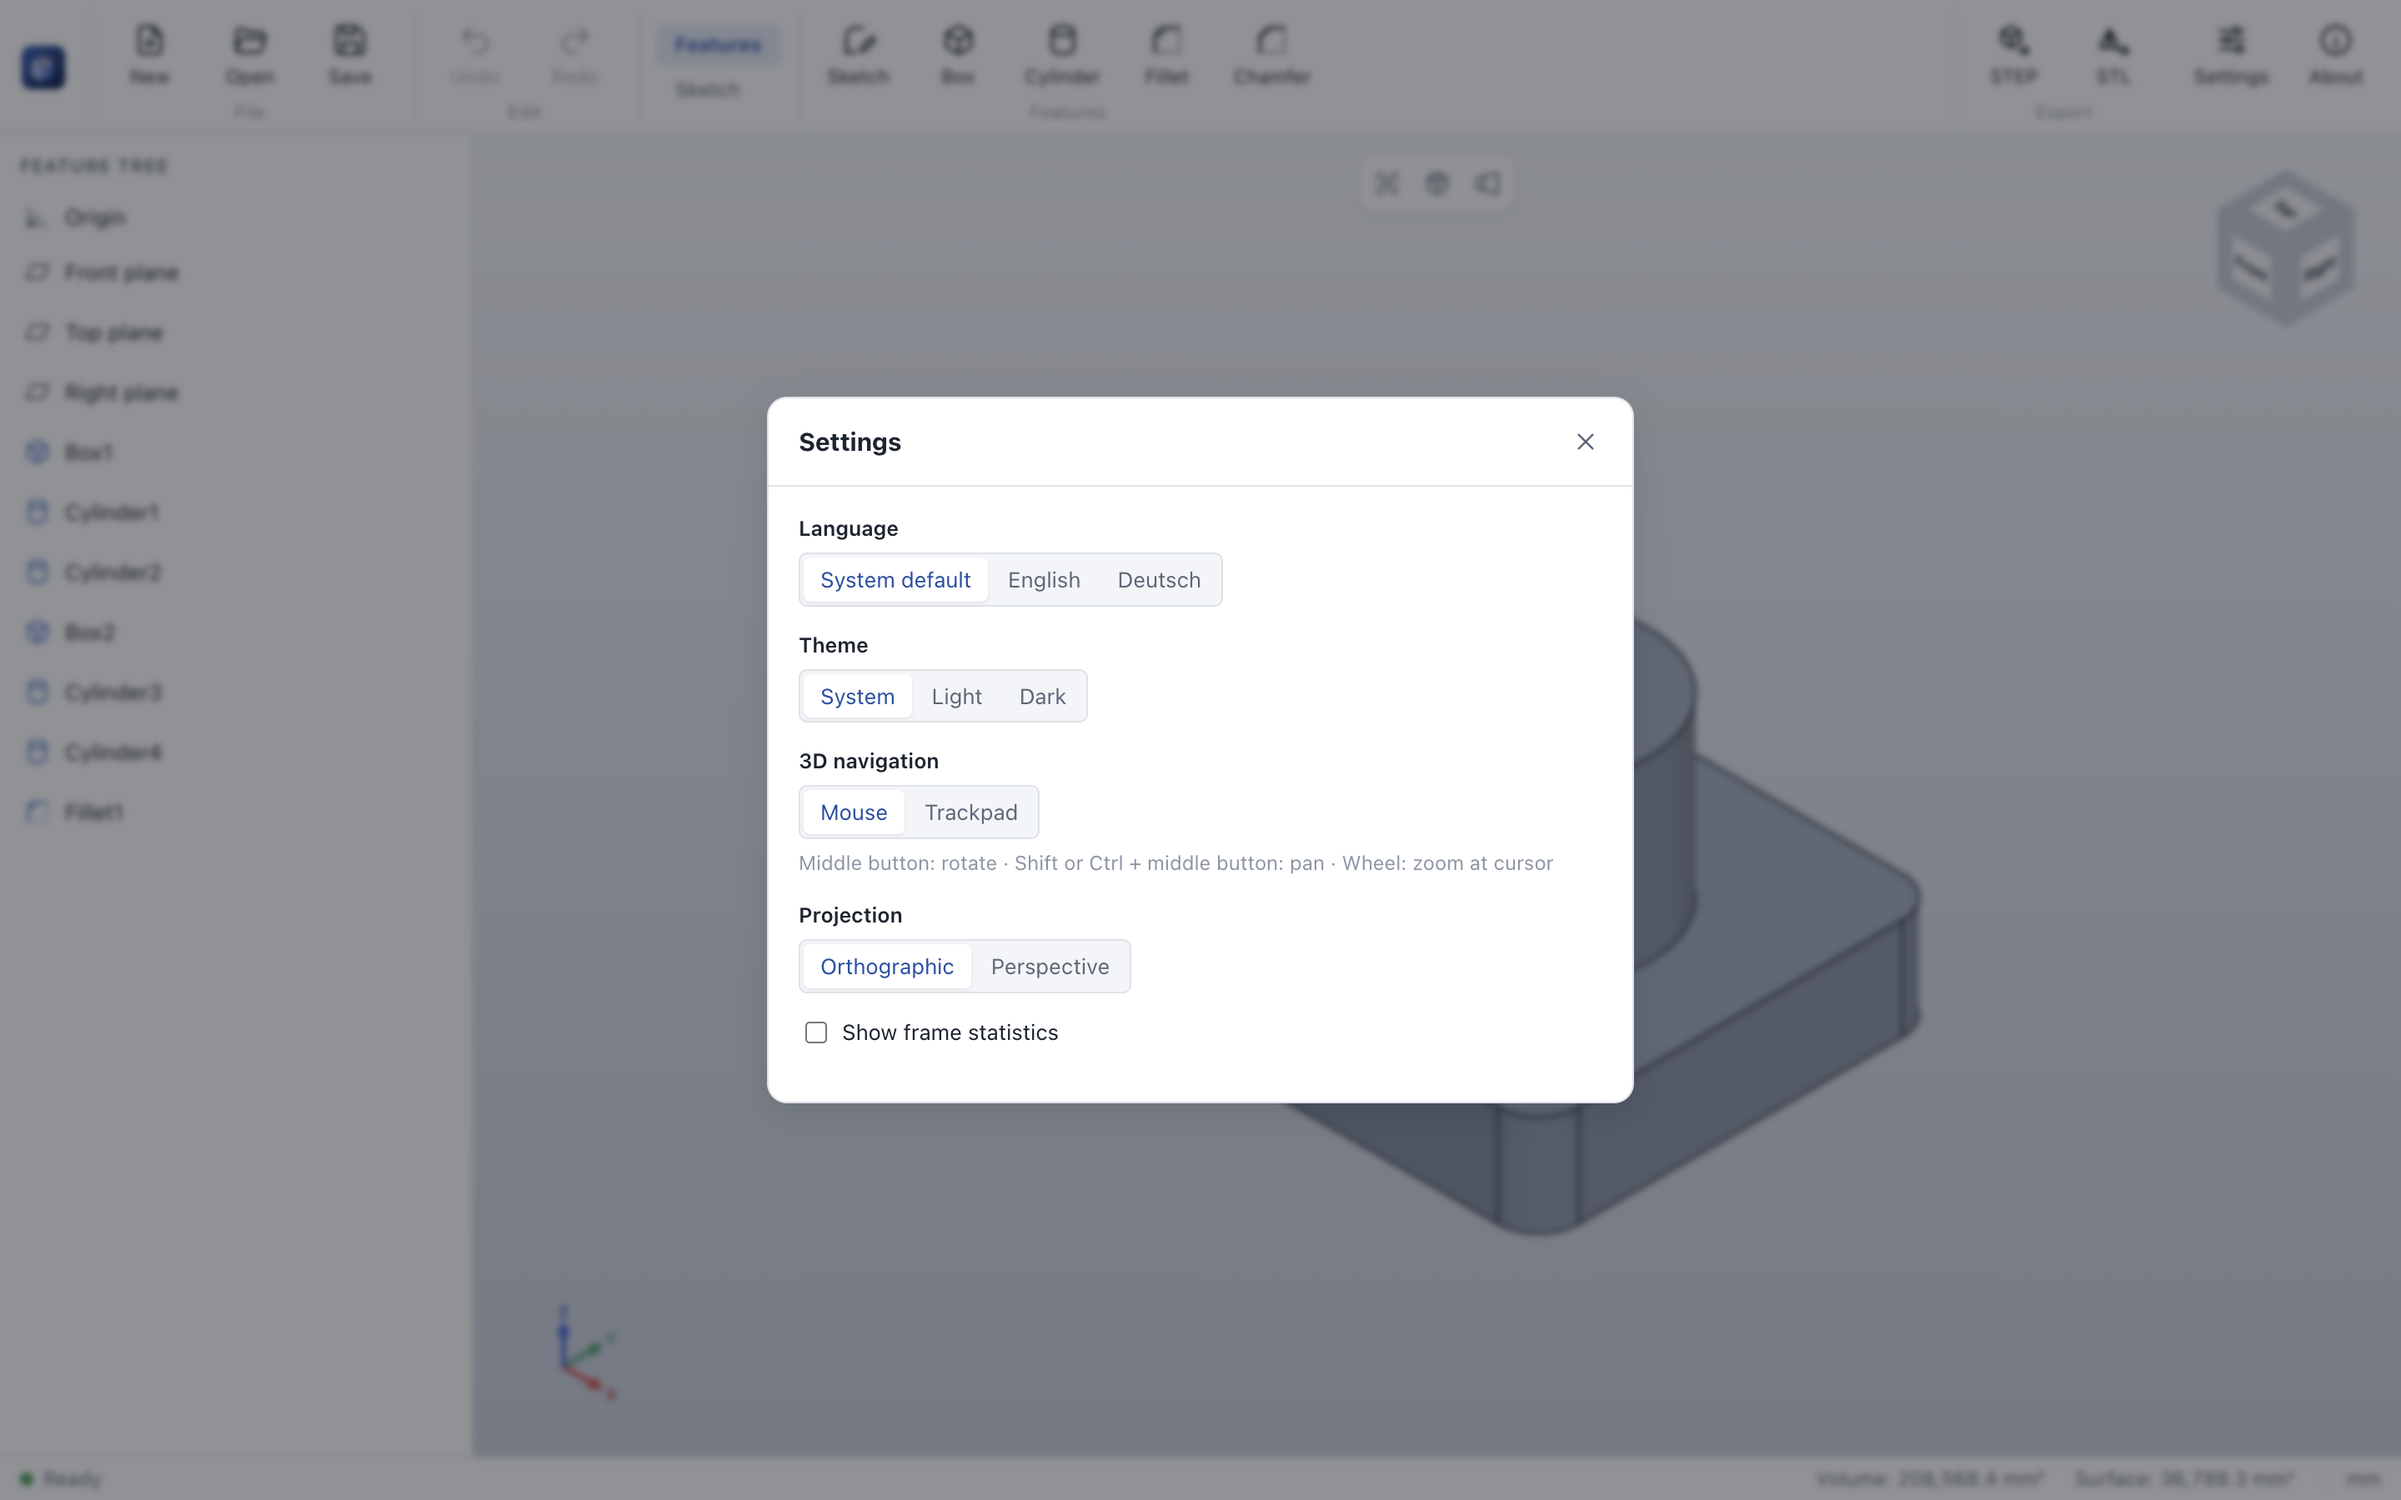
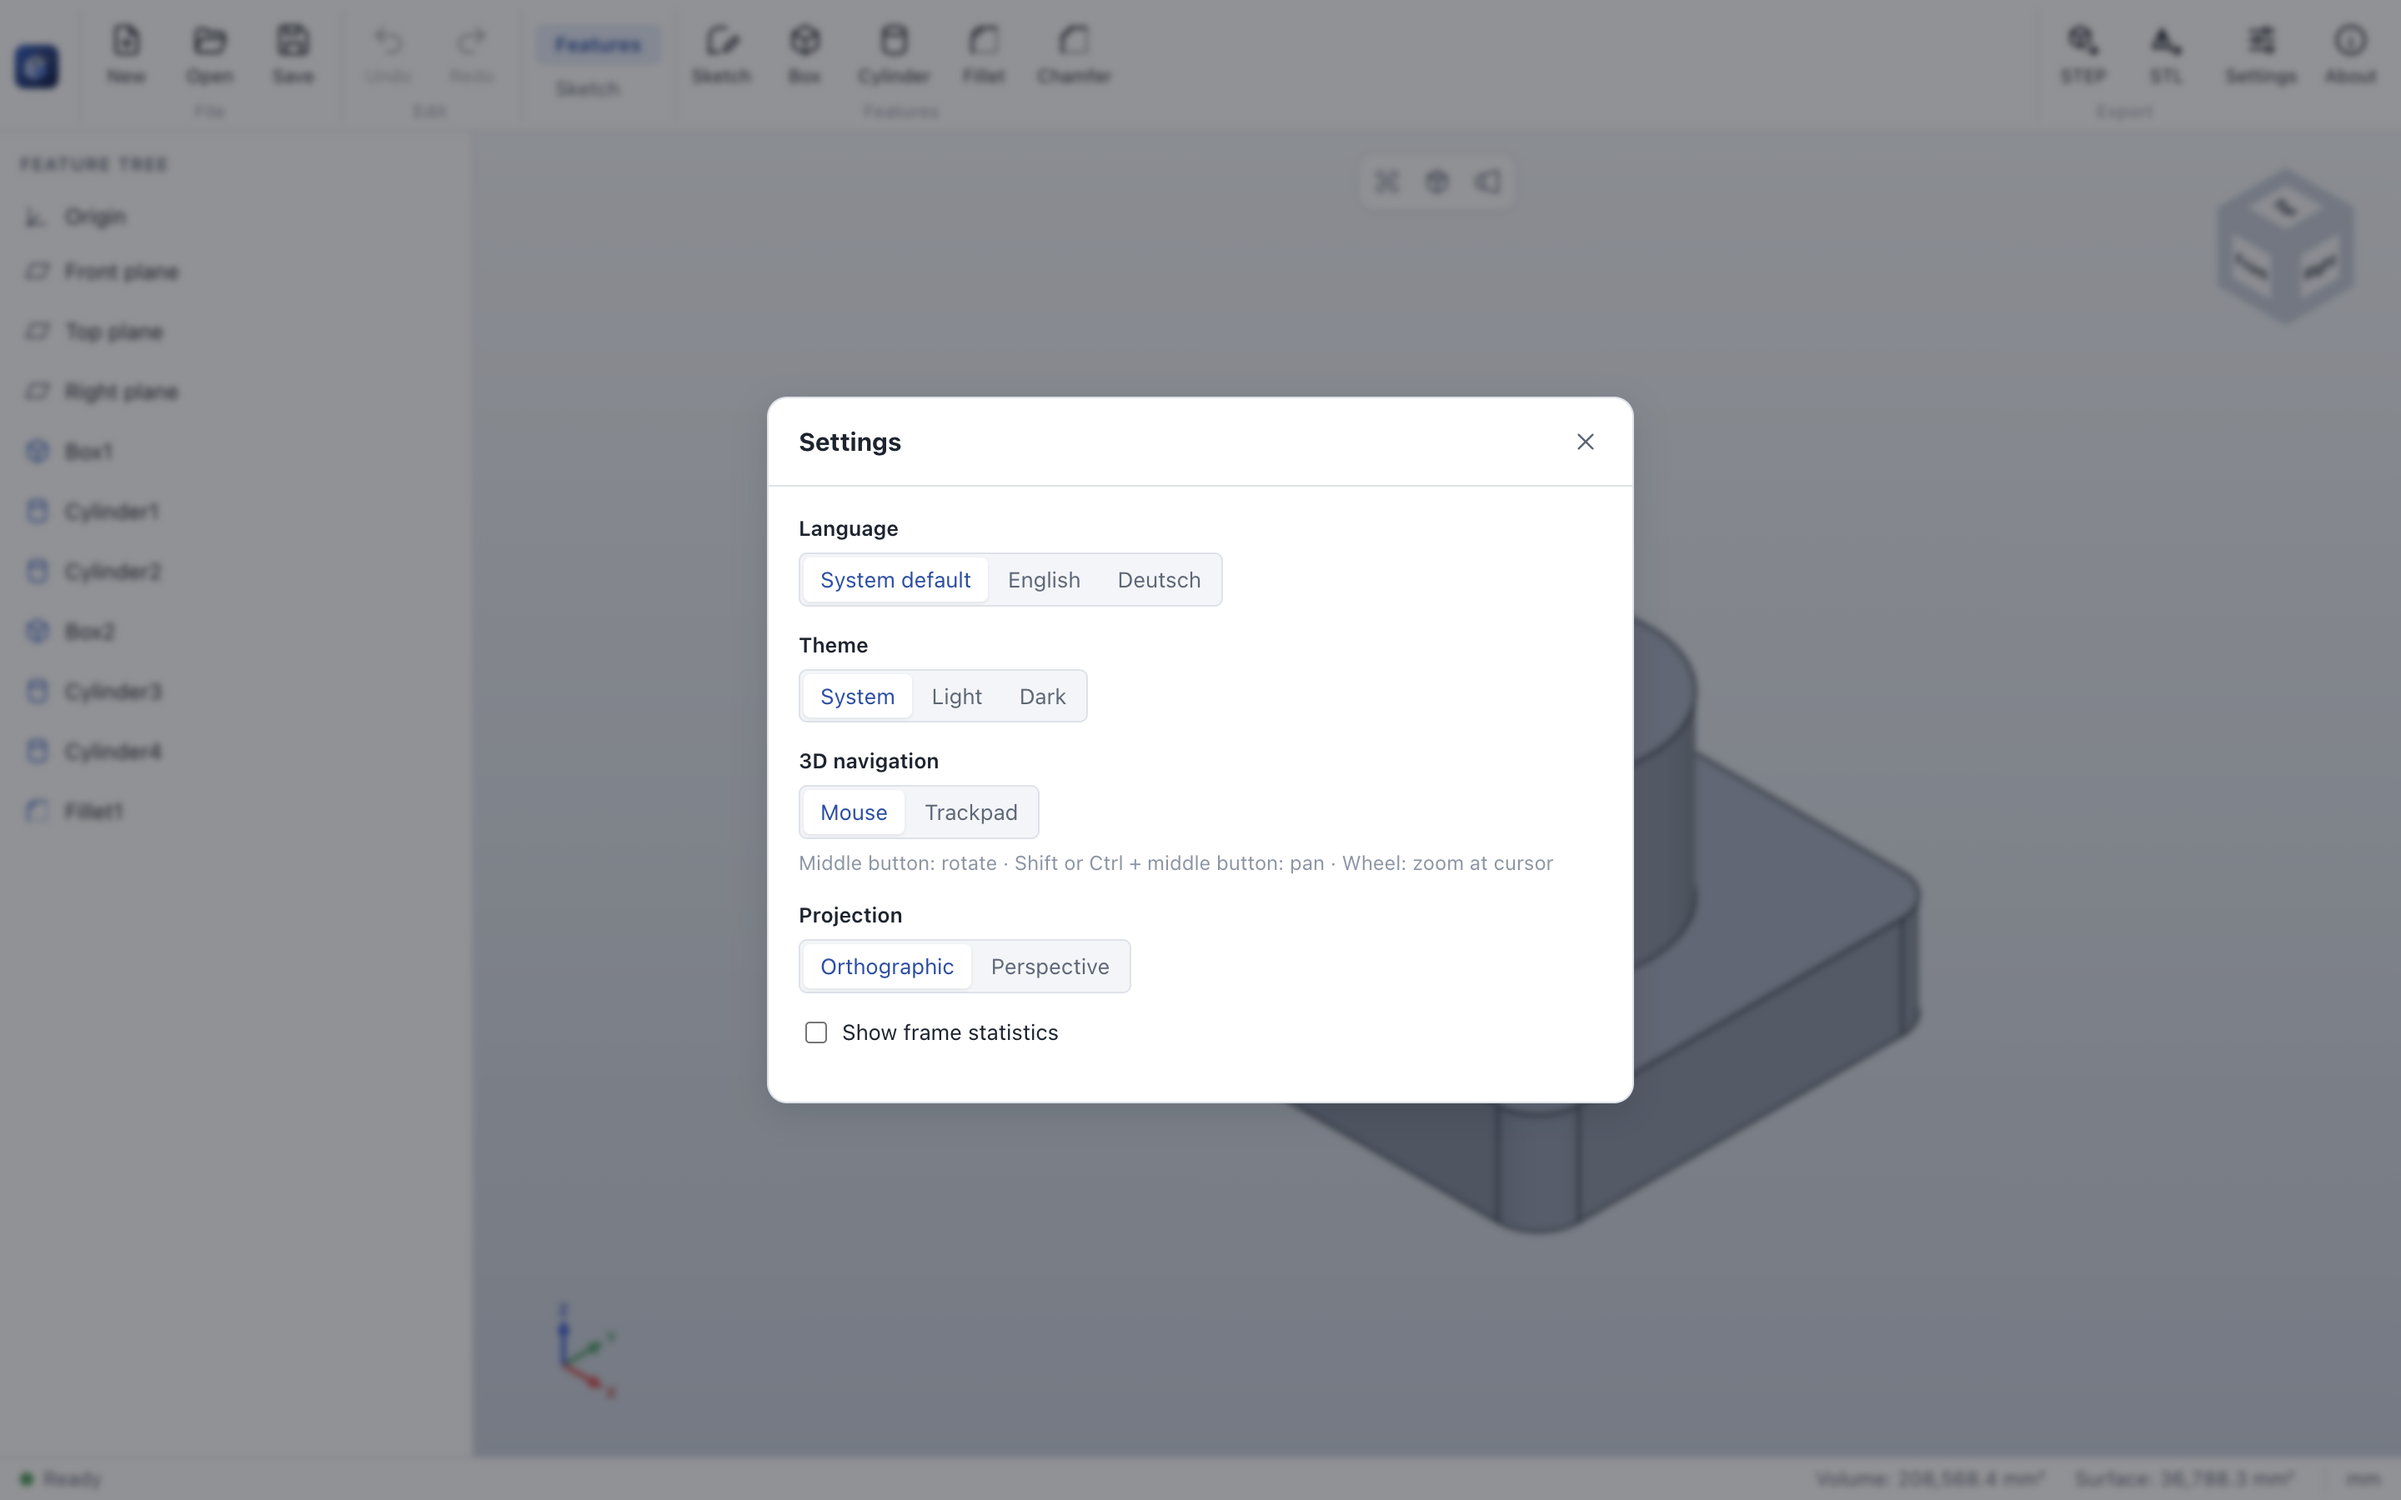
Keep the layout inside small windows; compact command bar
In sketch mode the command bar grew to about 1,430 px and made the whole
layout wider than smaller windows (laptops, the CI runners): the right
part of the 3D view was off screen and clicks there were lost.

- The app grid never grows beyond the window; the command bar scrolls as
  a last resort
- Below 1,500 px the command buttons are tighter, below 1,280 px they
  show icons only (names stay in the tooltips)
- E2E: the smallest window (960 × 600) in sketch mode fits and every
  command is on screen; the sketch tests no longer depend on the zoom
  level (pixel offsets, alignment snapping)

Claude-Session: https://claude.ai/code/session_01Fwu6Zgt9WCFbaBTJRduqHR

diff --git a/tests/e2e/sketch.spec.ts b/tests/e2e/sketch.spec.ts
@@ -394,7 +394,8 @@ test('draws with the tools: snapping, automatic relations, drag drawing, Esc and
   // Keyboard shortcut and drag drawing: a circle around the midpoint of the bottom line.
   await page.keyboard.press('c');
   const center = await screen(25, 0.3);
-  const rim = await screen(25, 8);
+  // Below the line, where nothing else lines up (snapping depends on the zoom level).
+  const rim = await screen(25, -8);
   await page.mouse.move(center.x, center.y, { steps: 3 });
   await page.mouse.down();
   await page.mouse.move(rim.x, rim.y, { steps: 8 });
@@ -410,8 +411,9 @@ test('draws with the tools: snapping, automatic relations, drag drawing, Esc and
   await clickAt(-30, 46);
   expect(await count('line')).toBe(4 + 6);
   await page.keyboard.press('Escape');
-  const corner = await screen(-50, 34);
-  await page.mouse.click(corner.x + 40, corner.y);
+  // A point on the bottom edge of the center rectangle, away from corners and its midpoint.
+  const edge = await screen(-45, 34);
+  await page.mouse.click(edge.x, edge.y);
   const selected = (await state(page)).sketchSelection;
   expect(selected).toHaveLength(1);
   await page.click('[data-command="construction"]');
@@ -476,4 +478,23 @@ test('adds relations to selected geometry, refuses over-defining ones and delete
   // Relations of the selection can be deleted from the list.
   await page.click('.relation-item[data-constraint] .icon-button');
   expect(await constraints()).toEqual(['horizontal']);
+});
+
+test('fits the smallest window in sketch mode: nothing overflows, the whole view is reachable', async () => {
+  launched = await launchApp({ width: 960, height: 600 });
+  const { page } = launched;
+  await page.click('[data-command="sketch"]');
+  await page.click('.plane-choice[data-plane="top"]');
+  await expect(page.locator('[data-command="tool-line"]')).toBeVisible();
+  const layout = await page.evaluate(() => {
+    const canvas = document.querySelector('.viewport-canvas')?.getBoundingClientRect();
+    return { scrollWidth: document.documentElement.scrollWidth, innerWidth: window.innerWidth, canvasRight: canvas?.right ?? Infinity };
+  });
+  expect(layout.scrollWidth).toBeLessThanOrEqual(layout.innerWidth);
+  expect(layout.canvasRight).toBeLessThanOrEqual(layout.innerWidth);
+  // Every command of the sketch tab is on screen.
+  for (const command of ['exit-sketch', 'tool-line', 'tool-point', 'construction', 'delete-sketch', 'settings', 'about']) {
+    const box = await page.locator(`[data-command="${command}"]`).boundingBox();
+    expect(box && box.x + box.width <= layout.innerWidth).toBe(true);
+  }
 });

diff --git a/src/renderer/src/styles.css b/src/renderer/src/styles.css
@@ -116,6 +116,8 @@ input {
 .app {
   display: grid;
   grid-template-rows: auto 1fr 26px;
+  /* Nothing (e.g. a long command bar) may make the layout wider than the window. */
+  grid-template-columns: minmax(0, 1fr);
   height: 100%;
 }
 
@@ -148,6 +150,10 @@ input {
   padding: 6px 10px 4px;
   background: var(--bg-panel);
   border-bottom: 1px solid var(--border);
+  /* Last resort on very small windows; the compact layouts below normally avoid it. */
+  overflow-x: auto;
+  overflow-y: hidden;
+  scrollbar-width: thin;
 }
 
 .brand {
@@ -221,6 +227,51 @@ input {
 .command-label {
   font-size: 11.5px;
   white-space: nowrap;
+}
+
+/* Narrower windows: tighter buttons, then icons only (the tooltips keep the names). */
+@media (max-width: 1500px) {
+  .command-bar {
+    gap: 2px;
+    padding-inline: 6px;
+  }
+
+  .command-group {
+    padding: 0 3px;
+  }
+
+  .command-button {
+    min-width: 48px;
+    padding-inline: 5px;
+  }
+
+  .command-label {
+    font-size: 11px;
+  }
+}
+
+@media (max-width: 1280px) {
+  .brand {
+    display: none;
+  }
+
+  .command-button {
+    min-width: 34px;
+    padding: 7px 4px 5px;
+  }
+
+  .command-button .command-label {
+    position: absolute;
+    width: 1px;
+    height: 1px;
+    overflow: hidden;
+    clip-path: inset(50%);
+    white-space: nowrap;
+  }
+
+  .command-icon {
+    font-size: 21px;
+  }
 }
 
 /* Vertical tab switch between the command sets (Features, Sketch). */
